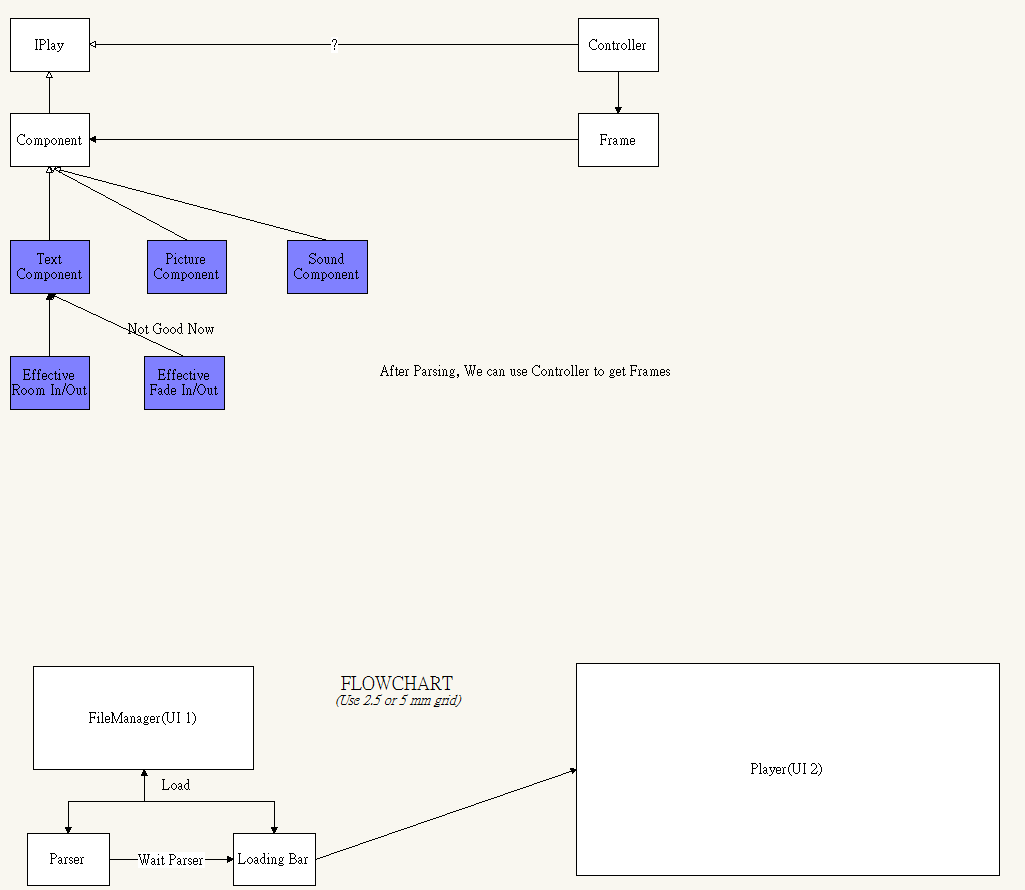
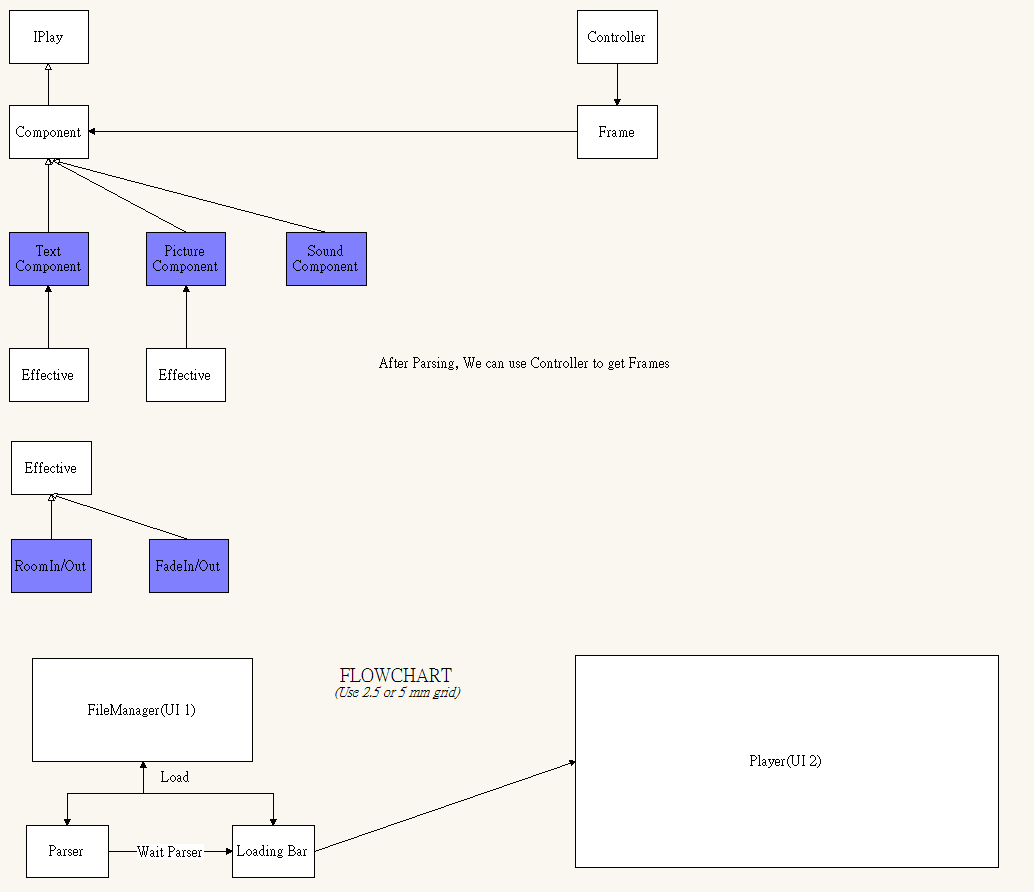
14/12/26 Meeting

diff --git a/src/Architecture.cpp b/src/Architecture.cpp
@@ -1,0 +1,208 @@
+namespace dpd
+{
+class IPlay
+{
+	IPlay(){}
+	~IPlay(){}
+	virtual void play() = 0 ;
+	virtual void stop() = 0 ;
+	virtual void forward() = 0 ;
+	virtual void backward() = 0 ;
+}
+
+class Component : IPlay
+{
+	Component(){}
+	~Component(){}
+	virtual void play(){}
+	virtual void stop(){} ;
+	virtual void forward(){} ;
+	virtual void backward(){} ;
+}
+
+class TextComponent : Component
+{
+	// show text when display picture
+	String text ;
+	Time start_time, stop_time ;
+	TextComponent(String str, Time t1, Time t2) : str(text), start_time(t1), stop_time(t2){}
+	~TextComponent(){} 
+	
+	void play()
+	{
+		// 計時
+		Time t = current_tiem ;
+		while(true)
+		{
+			if (t == start_time) 
+				open thread to draw text ;
+			else if (t == end_time)
+				stop all and break
+		}
+	}
+	
+	void stop()
+	{
+		
+	}
+}
+
+
+// 特效種類
+enum EffectType
+{
+	NEED_SHOW_PICTURE = 0,
+	NO_NEED_SHOW_PICTURE = 1,
+	Something...etc
+}
+
+class Effective
+{
+	BaseView view ;
+	EffectType type ;
+	explicit Effective(){} 
+	virtual EffectType getType(){} = 0 ;
+	virtual void pre() = 0 ;
+	virtual void mid() = 0 ; // it's complex 
+	virtual void post() = 0 ;
+	using ttt::aaa:ccc::sss::hello
+	
+	hello a ;
+}
+
+class RoomInOut : Effective
+{
+	RoomInOut(B)
+	
+	RoomInOut(A, B, C)  //1, 3, 1  or  1, 0, 1
+}
+
+class NonEffective : Effective
+{
+	NonEffective() ;
+}
+
+class PictureComponent : Component
+{
+	Effective effective ;
+	PictureComponent() : effective(0) {}
+	PictureComponent() : effective(new NonEffective()) {}
+	PictureComponent(Effective e): effective(e) {}
+	~PictureComponent(){}
+	
+
+	void play()
+	{
+		View a =new View ;
+		a.height= 100
+		a.wight = 100 
+	
+		// generate picture view and ready it
+		if (!effective)
+			just only show picture+++
+		else
+		{
+			effective.pre(a) ;
+			// mid is hard to implement
+			if (effective.getType == NEED_SHOW_PICTURE)
+				show picture ;
+			else
+				dont show picture !! ;
+			effective.post() ;
+			
+			effective.pre() ;
+			effective.mid() ;
+			effective.post() ;
+		}
+		a.kill
+	}
+	
+	void stop(){}
+}
+
+
+class FrameObj : IPlay
+{
+
+	FrameObj(duration_time, Something) : IPlay{}
+	~FrameObj(){}
+
+	vector<Thread> t ;
+	void add_item(Component m){ items.push_back(m) ;}
+	
+	void play(){}
+
+	void stop() {}
+	
+	
+	vector<Component> & items()
+	{
+		return this->items();
+	}
+}
+}
+
+class Controller
+{
+	vector<FrameObj> obj ;
+	vector<Thread> t ;
+	
+    void play()
+	{
+		for (iter in each obj)
+		{
+			// iter->play() ;
+
+			vector<Component> & items = iter->items();
+			
+			for (item in items) {
+				if thread obj != null 
+					...
+				
+				else
+				{
+					for iter in items
+						Thread thread = new Thread(iter->play()) ;
+						t.push_back(thread)
+						thread->run();
+						// open thread to start iter->play() ;
+						
+				}
+			}
+			
+			check items thread is finish
+			while (true)
+				if yes 
+					break ;
+				else
+					wait for iter thread's end
+		}
+	}
+	
+	void stop()
+	{
+		for iter in t
+			iter->pause() ;
+	}
+
+};
+
+main()
+{
+	vector<FrameObj> obj ;
+	FrameObj frame = new FrameObj( 5 sec, Something ) ;
+	
+	// we can use decorate pattern or another way to do it.
+	frame.add_item(new TextComponent) ;
+	frame.add_item(new RoomInPictureComponent())) ;
+	
+	obj.push_back(frame) ;
+	
+	for (iter in each frames)
+	{
+		iter->play() ;
+
+	}
+	
+	pass_to_player(global_setting, obj) ;
+}

diff --git a/doc/README.md b/doc/README.md
@@ -1,10 +1,6 @@
 # Known Issue or Something
 
-1. Coding Style
-2. We don't have good idea to resolve effective now.
-3. Project name
-4. Build tool (Makefile or CMake or ... ?)
-5. ...
+1. ...
 
 ----
 
@@ -15,6 +11,10 @@
 ----
 
 # History
+## 14/12/25
+1. Project Name: PictureDisplayer(pdr)
+2. Update UML(Component/Effective)
+3. Coding Style have been checked.
 
 ## 14/12/23
 1. Architecture discussion
